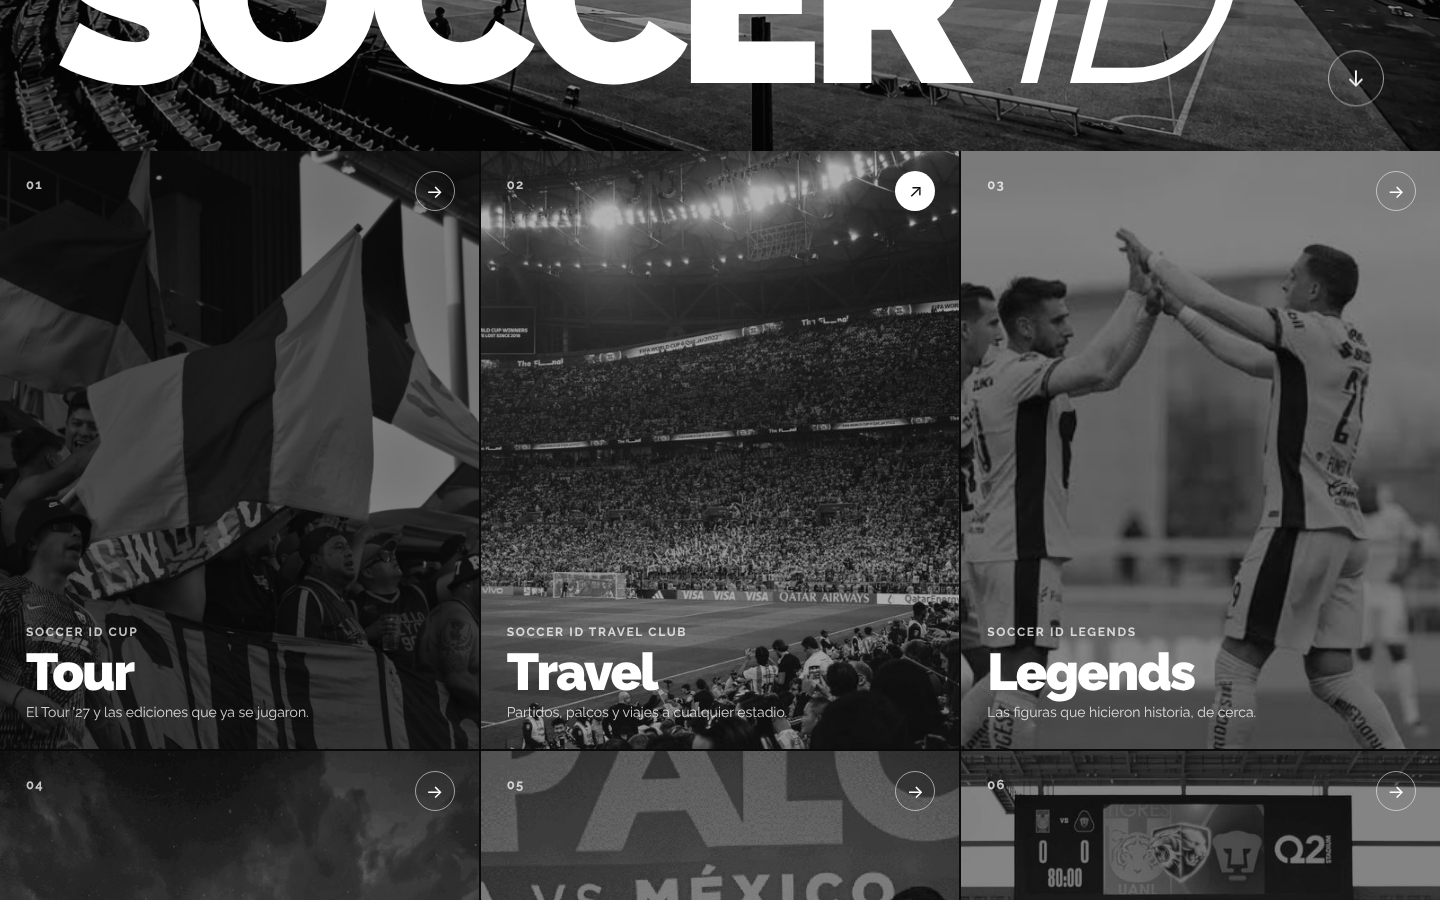
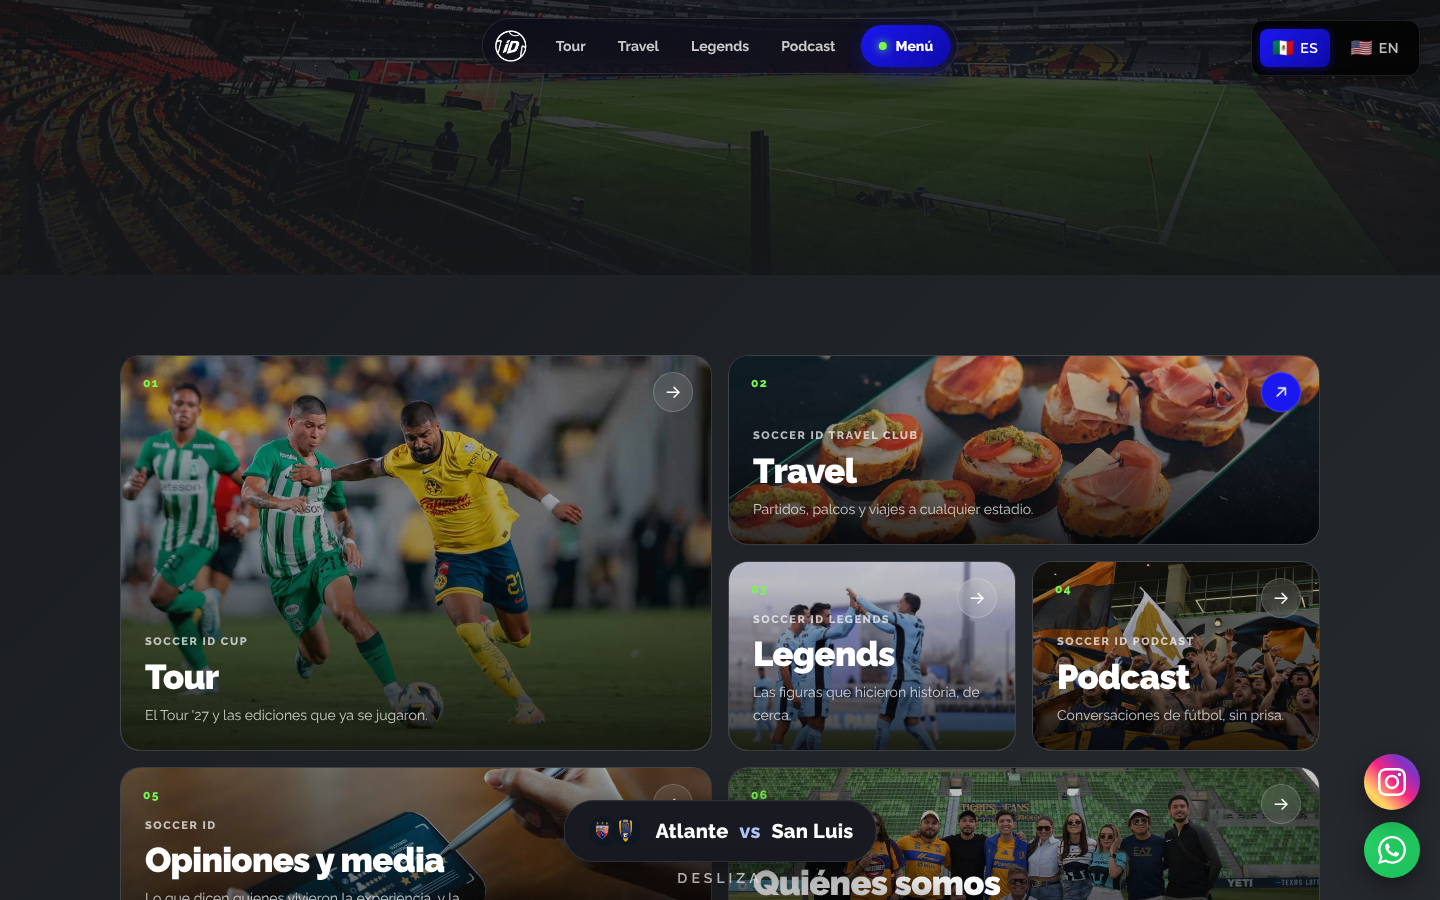
Inicio v2 sobre la landing original: vidrio, isotipo y bento con foto
El home de la nueva distribución vuelve a montarse sobre el layout y el
CSS originales (fondo oscuro, vidrio, hero con el isotipo sobre el estadio,
bento con fotografía, dock de redes y hoja del próximo partido), que es lo
que funcionaba. Encima sólo va lo nuevo: menú en píldora con las cuatro
marcas, menú completo con :target, bento de seis secciones y chips de redes.

Sólo se usa el isotipo (el círculo con el iD y la playera), nunca el
logotipo completo. Se retira el layout `inicio` de la ronda anterior.

Claude-Session: https://claude.ai/code/session_01TBS5J98YBvjYTTdc9XtUtE

diff --git a/assets/css/inicio.css b/assets/css/inicio.css
@@ -1,110 +1,135 @@
 /* ═══════════════════════════════════════════════════════════════════════
-   HOME · blanco y negro. Sin color, a pedido: ni el azul ni el verde de la
-   marca. Lo que da peso es la tipografía y la fotografía en escala de grises.
-   Hoja propia: el home no comparte estilos con las páginas interiores.
+   HOME · nueva distribución sobre la base de la landing original.
+   Esta hoja SOLO añade lo nuevo (píldora, menú, bento de seis, tarjeta
+   flotante, redes). Todo lo demás (fondo, hero, vidrio, bento base,
+   preloader, dock) viene de main.css, que es lo que daba el encanto.
+   Marca: solo el isotipo, el círculo con el iD y la playera.
+   Colores: el azul y el verde del logo, por variable, como manda main.css.
    ═══════════════════════════════════════════════════════════════════════ */
-@font-face { font-family: 'Raleway'; src: url('/assets/fonts/1Ptxg8zYS_SKggPN4iEgvnHyvveLxVvaooCP.ttf') format('truetype'); font-weight: 400; font-display: swap; }
-@font-face { font-family: 'Raleway'; src: url('/assets/fonts/1Ptxg8zYS_SKggPN4iEgvnHyvveLxVvoooCP.ttf') format('truetype'); font-weight: 500; font-display: swap; }
-@font-face { font-family: 'Raleway'; src: url('/assets/fonts/1Ptxg8zYS_SKggPN4iEgvnHyvveLxVs9pYCP.ttf') format('truetype'); font-weight: 700; font-display: swap; }
-@font-face { font-family: 'Raleway'; src: url('/assets/fonts/1Ptxg8zYS_SKggPN4iEgvnHyvveLxVtzpYCP.ttf') format('truetype'); font-weight: 900; font-display: swap; }
 
-:root {
-  --negro: #0A0A0A;
-  --blanco: #FFFFFF;
-  --gris: #8A8A8A;      /* 4.5 sobre blanco y 4.6 sobre negro: el mínimo */
-  --gris-claro: #E6E6E6;
-  --gutter: clamp(20px, 4vw, 56px);
+/* ─── Píldora de vidrio ───────────────────────────────────────────── */
+.pildora {
+  position: fixed; top: 18px; left: 50%; transform: translateX(-50%); z-index: 9995;
+  display: flex; align-items: center; gap: 6px;
+  padding: 6px 6px 6px 8px; border-radius: 999px;
+  background: rgba(10, 10, 26, 0.55);
+  backdrop-filter: blur(16px); -webkit-backdrop-filter: blur(16px);
+  border: 1px solid rgba(255,255,255,0.1);
+  box-shadow: 0 8px 32px rgba(0,0,0,0.35);
 }
-* { box-sizing: border-box; margin: 0; padding: 0; }
-html { scroll-behavior: smooth; }
-body { font-family: 'Raleway', -apple-system, 'Segoe UI', Roboto, sans-serif; background: var(--blanco); color: var(--negro); -webkit-font-smoothing: antialiased; line-height: 1.5; }
-a { color: inherit; text-decoration: none; }
-img { display: block; }
-
-/* ─── Cabecera ─────────────────────────────────────────────────────── */
-.cab {
-  position: absolute; top: 0; left: 0; right: 0; z-index: 10;
-  display: flex; align-items: center; justify-content: space-between; gap: 24px;
-  padding: 22px var(--gutter); color: var(--blanco);
-  mix-blend-mode: difference;   /* blanco sobre la foto oscura; negro si pasa sobre blanco */
+.pildora__iso { display: flex; width: 40px; height: 40px; align-items: center; justify-content: center; }
+.pildora__iso img { width: 34px; height: 34px; }
+.pildora__nav { display: flex; gap: 2px; padding: 0 4px; }
+.pildora__nav a {
+  font-size: 14px; font-weight: 700; color: rgba(255,255,255,0.78);
+  padding: 9px 15px; border-radius: 999px; text-decoration: none;
+  transition: background .2s, color .2s;
 }
-.cab__logo img { height: 24px; width: auto; }
-.cab__nav { display: flex; gap: 26px; font-size: 14px; font-weight: 700; letter-spacing: .02em; }
-.cab__nav a { position: relative; padding-bottom: 2px; }
-.cab__nav a::after { content: ''; position: absolute; left: 0; right: 0; bottom: 0; height: 1.5px; background: currentColor; transform: scaleX(0); transform-origin: left; transition: transform .25s; }
-.cab__nav a:hover::after { transform: scaleX(1); }
-.cab__menu { display: none; font-size: 14px; font-weight: 700; border: 1.5px solid currentColor; border-radius: 999px; padding: 8px 16px; }
+.pildora__nav a:hover { background: rgba(255,255,255,0.1); color: #fff; }
+.pildora__menu {
+  display: inline-flex; align-items: center; gap: 9px;
+  font-size: 14px; font-weight: 800; color: #fff; text-decoration: none;
+  padding: 10px 18px; border-radius: 999px;
+  background: linear-gradient(135deg, var(--brand-blue), var(--brand-blue-deep));
+  box-shadow: 0 6px 20px rgba(var(--brand-blue-rgb), 0.35);
+}
+.pildora__punto { width: 8px; height: 8px; border-radius: 50%; background: var(--brand-lime); box-shadow: 0 0 10px var(--brand-lime); }
 
-/* Menú completo, celular. */
-.menu { position: fixed; inset: 0; z-index: 30; background: var(--negro); color: var(--blanco); padding: 24px var(--gutter) 32px; display: flex; flex-direction: column; visibility: hidden; opacity: 0; transition: opacity .2s, visibility .2s; }
+/* ─── Menú completo (ancla, sin JavaScript) ───────────────────────── */
+.menu { position: fixed; inset: 0; z-index: 10050; visibility: hidden; opacity: 0; transition: opacity .25s, visibility .25s; }
 .menu:target { visibility: visible; opacity: 1; }
-.menu__x { align-self: flex-end; font-size: 14px; font-weight: 700; border: 1.5px solid rgba(255,255,255,.6); border-radius: 999px; padding: 8px 16px; }
-.menu__lista { list-style: none; margin-top: 40px; }
-.menu__lista a { display: flex; align-items: baseline; gap: 18px; padding: 16px 0; border-bottom: 1px solid rgba(255,255,255,.2); font-size: clamp(32px, 8vw, 56px); font-weight: 900; letter-spacing: -.03em; line-height: 1; }
-.menu__lista small { font-size: 13px; font-weight: 700; color: var(--gris); width: 26px; }
-.menu__redes { margin-top: auto; padding-top: 32px; display: flex; flex-wrap: wrap; gap: 8px 22px; font-size: 14px; font-weight: 700; }
-
-/* ─── Portada ──────────────────────────────────────────────────────── */
-.portada { position: relative; height: 100vh; min-height: 560px; background: var(--negro); color: var(--blanco); overflow: hidden; display: flex; align-items: flex-end; }
-.portada__foto, .portada__foto img { position: absolute; inset: 0; width: 100%; height: 100%; object-fit: cover; }
-.portada__foto img { filter: grayscale(1) contrast(1.05); opacity: .55; transform: scale(1.04); animation: respira 14s ease-in-out infinite alternate; }
-@keyframes respira { to { transform: scale(1); } }
-.portada__texto { position: relative; padding: 0 var(--gutter) 48px; width: 100%; }
-.portada__lema { font-size: clamp(15px, 1.6vw, 20px); font-weight: 500; max-width: 520px; margin-bottom: 18px; color: rgba(255,255,255,.85); }
-.portada__marca { font-size: clamp(76px, 17vw, 260px); font-weight: 900; letter-spacing: -.055em; line-height: .86; }
-.portada__marca span { font-weight: 400; font-style: italic; letter-spacing: -.03em; }
-.portada__baja { position: absolute; right: var(--gutter); bottom: 48px; width: 56px; height: 56px; border: 1.5px solid rgba(255,255,255,.6); border-radius: 50%; display: flex; align-items: center; justify-content: center; font-size: 22px; animation: baja 2.2s ease-in-out infinite; }
-@keyframes baja { 0%, 100% { transform: translateY(0); } 50% { transform: translateY(8px); } }
-
-/* ─── Seis fotos ───────────────────────────────────────────────────── */
-.secciones { display: grid; grid-template-columns: repeat(3, 1fr); gap: 2px; background: var(--negro); }
-.celda { position: relative; aspect-ratio: 4 / 5; overflow: hidden; color: var(--blanco); display: flex; flex-direction: column; justify-content: flex-end; padding: 26px; isolation: isolate; }
-.celda__foto { position: absolute; inset: 0; width: 100%; height: 100%; object-fit: cover; filter: grayscale(1); transform: scale(1.02); transition: transform .8s cubic-bezier(.2,.8,.2,1); z-index: -2; }
-.celda__velo { position: absolute; inset: 0; background: rgba(10,10,10,.5); transition: background .4s; z-index: -1; }
-.celda:hover .celda__foto { transform: scale(1.08); }
-.celda:hover .celda__velo { background: rgba(10,10,10,.3); }
-.celda__num { position: absolute; top: 24px; left: 26px; font-size: 13px; font-weight: 700; letter-spacing: .1em; color: rgba(255,255,255,.75); }
-.celda__ir { position: absolute; top: 20px; right: 24px; width: 40px; height: 40px; border: 1.5px solid rgba(255,255,255,.55); border-radius: 50%; display: flex; align-items: center; justify-content: center; font-size: 18px; transition: background .25s, color .25s, transform .4s cubic-bezier(.2,.8,.2,1); }
-.celda:hover .celda__ir { background: var(--blanco); color: var(--negro); transform: rotate(-45deg); }
-.celda__texto { display: flex; flex-direction: column; gap: 6px; }
-.celda__sub { font-size: 12px; font-weight: 700; letter-spacing: .14em; text-transform: uppercase; color: rgba(255,255,255,.75); }
-.celda__nombre { font-size: clamp(34px, 3.6vw, 56px); font-weight: 900; letter-spacing: -.035em; line-height: .95; }
-.celda__linea { font-size: 14px; color: rgba(255,255,255,.8); max-width: 300px; }
-
-/* ─── Ahora y redes: listas con filete ─────────────────────────────── */
-.ahora, .redes { padding: 64px var(--gutter); }
-.ahora { border-bottom: 1px solid var(--gris-claro); }
-.ahora__t, .redes__t { font-size: 13px; font-weight: 700; letter-spacing: .14em; text-transform: uppercase; color: var(--gris); margin-bottom: 18px; }
-.ahora__lista { list-style: none; border-top: 1px solid var(--negro); }
-.ahora__lista a { display: grid; grid-template-columns: 140px 1fr 40px; align-items: center; gap: 20px; padding: 22px 0; border-bottom: 1px solid var(--gris-claro); transition: padding-left .25s; }
-.ahora__lista a:hover { padding-left: 10px; }
-.ahora__k { font-size: 13px; font-weight: 700; letter-spacing: .1em; text-transform: uppercase; }
-.ahora__v { font-size: clamp(18px, 2vw, 26px); font-weight: 700; letter-spacing: -.02em; }
-.ahora__ir { text-align: right; font-size: 22px; }
-.redes__lista { list-style: none; display: grid; grid-template-columns: repeat(6, 1fr); gap: 2px; }
-.redes__lista a { display: flex; flex-direction: column; gap: 18px; padding: 20px; border: 1px solid var(--gris-claro); transition: background .2s, color .2s; }
-.redes__lista a:hover { background: var(--negro); color: var(--blanco); }
-.redes__lista span { font-weight: 700; font-size: 16px; }
-.redes__lista small { font-size: 13px; color: var(--gris); }
-
-.pie { padding: 26px var(--gutter) 36px; border-top: 1px solid var(--negro); }
-.pie__fila { display: flex; justify-content: space-between; align-items: center; gap: 16px; flex-wrap: wrap; font-size: 13px; }
-.pie__marca { font-weight: 900; letter-spacing: -.02em; }
-.pie__legal { color: var(--gris); }
-.pie__legal a:hover { color: var(--negro); }
-
-@media (max-width: 900px) {
-  .cab__nav { display: none; }
-  .cab__menu { display: inline-block; }
-  .secciones { grid-template-columns: 1fr 1fr; }
-  .redes__lista { grid-template-columns: 1fr 1fr; }
-  .ahora__lista a { grid-template-columns: 1fr 32px; }
-  .ahora__k { grid-column: 1 / -1; }
+.menu__scrim { position: absolute; inset: 0; background: rgba(5,4,21,0.72); backdrop-filter: blur(10px); -webkit-backdrop-filter: blur(10px); }
+.menu__panel {
+  position: relative; max-width: 760px; margin: 0 auto; height: 100%; padding: 24px 24px 32px;
+  display: flex; flex-direction: column; color: #fff; overflow-y: auto;
+  animation: menuEntra .3s cubic-bezier(.2,.8,.3,1);
 }
-@media (max-width: 600px) {
-  .secciones { grid-template-columns: 1fr; }
-  .celda { aspect-ratio: 4 / 3; }
-  .portada { height: 88vh; }
-  .portada__baja { display: none; }
+@keyframes menuEntra { from { opacity: 0; transform: translateY(18px); } to { opacity: 1; transform: none; } }
+.menu__cab { display: flex; align-items: center; justify-content: space-between; }
+.menu__x { width: 42px; height: 42px; border-radius: 50%; border: 1px solid rgba(255,255,255,0.2); background: rgba(255,255,255,0.06); color: #fff; font-size: 26px; line-height: 1; display: flex; align-items: center; justify-content: center; text-decoration: none; }
+.menu__lista { list-style: none; margin: 34px 0 0; padding: 0; }
+.menu__lista a {
+  display: grid; grid-template-columns: 34px 1fr; column-gap: 14px; align-items: baseline;
+  padding: 16px 14px; border-radius: 16px; color: #fff; text-decoration: none;
+  transition: background .2s;
 }
-@media (prefers-reduced-motion: reduce) { * { animation: none !important; transition: none !important; } }
+.menu__lista a:hover { background: rgba(255,255,255,0.07); }
+.menu__lista small { font-size: 12px; font-weight: 800; color: var(--brand-lime); }
+.menu__lista span { font-size: clamp(30px, 6vw, 48px); font-weight: 900; letter-spacing: -.02em; line-height: 1.05; }
+.menu__lista em { grid-column: 2; font-style: normal; font-size: 14px; color: rgba(255,255,255,0.65); margin-top: 4px; }
+.menu__redes { margin-top: auto; padding-top: 28px; display: flex; flex-wrap: wrap; gap: 8px; }
+.menu__redes a { font-size: 13px; font-weight: 700; color: #fff; text-decoration: none; padding: 9px 15px; border-radius: 999px; border: 1px solid rgba(255,255,255,0.2); background: rgba(255,255,255,0.06); }
+
+/* ─── Hero: solo retoques sobre el original ───────────────────────── */
+.hero-logo-text img { filter: drop-shadow(0 10px 30px rgba(0,0,0,0.5)); }
+.hero-marcas { display: flex; justify-content: center; flex-wrap: wrap; gap: 8px 18px; margin-top: 8px; }
+.hero-marcas span {
+  font-size: 12px; font-weight: 800; letter-spacing: .18em; text-transform: uppercase;
+  color: rgba(255,255,255,0.7); display: flex; align-items: center; gap: 18px;
+}
+.hero-marcas span + span::before { content: ''; width: 5px; height: 5px; border-radius: 50%; background: var(--brand-lime); }
+
+/* ─── Bento de seis secciones ─────────────────────────────────────── */
+.bento-v2 {
+  grid-template-columns: repeat(4, 1fr);
+  grid-template-rows: repeat(3, 190px);
+  grid-template-areas:
+    "tour tour travel travel"
+    "tour tour legends podcast"
+    "opiniones opiniones nosotros nosotros";
+}
+.item-tour { grid-area: tour; } .item-travel { grid-area: travel; } .item-legends { grid-area: legends; }
+.item-podcast { grid-area: podcast; } .item-opiniones { grid-area: opiniones; } .item-nosotros { grid-area: nosotros; }
+.bento-v2__item { display: block; text-decoration: none; color: inherit; opacity: 0; transform: translateY(30px); animation: bentoEntra .7s cubic-bezier(.34,1.56,.64,1) forwards; animation-delay: calc(var(--i) * 90ms + 150ms); }
+@keyframes bentoEntra { to { opacity: 1; transform: none; } }
+.bento-v2__item::before { background-image: var(--foto); }
+.item-tour::before { background-position: center 12%; }
+.bento-v2__num { position: absolute; top: 18px; left: 22px; font-size: 12px; font-weight: 800; letter-spacing: .12em; color: var(--brand-lime); }
+.bento-v2__sub { font-size: 11px; font-weight: 800; letter-spacing: .14em; text-transform: uppercase; color: rgba(255,255,255,0.7); margin-bottom: 4px; }
+.bento-v2 .bento-content h3 { font-size: clamp(1.4rem, 2.4vw, 2.2rem); font-weight: 900; letter-spacing: -.02em; margin-bottom: 4px; }
+.bento-v2 .bento-content p { font-size: 14px; color: rgba(255,255,255,0.75); margin: 0; max-width: 360px; }
+.bento-v2__ir {
+  position: absolute; top: 16px; right: 18px; z-index: 3;
+  width: 40px; height: 40px; border-radius: 50%;
+  display: flex; align-items: center; justify-content: center;
+  background: rgba(255,255,255,0.1); border: 1px solid rgba(255,255,255,0.18);
+  backdrop-filter: blur(8px); -webkit-backdrop-filter: blur(8px);
+  color: #fff; font-size: 18px; transition: background .25s, transform .35s cubic-bezier(.2,.8,.2,1);
+}
+.bento-v2__item:hover .bento-v2__ir { background: var(--brand-blue); transform: rotate(-45deg); }
+
+
+/* ─── Redes ───────────────────────────────────────────────────────── */
+.redes-v2 { padding: 40px 20px 110px; }
+.redes-v2 .section-header { margin-bottom: 26px; }
+.redes-v2__grid { display: grid; grid-template-columns: repeat(6, 1fr); gap: 12px; max-width: 1200px; margin: 0 auto; }
+.redes-v2__chip {
+  display: flex; flex-direction: column; gap: 14px; padding: 18px; border-radius: 18px; text-decoration: none; color: #fff;
+  background: rgba(255,255,255,0.05); border: 1px solid rgba(255,255,255,0.1);
+  backdrop-filter: blur(10px); -webkit-backdrop-filter: blur(10px);
+  transition: transform .2s, border-color .2s, background .2s;
+}
+.redes-v2__chip:hover { transform: translateY(-3px); border-color: rgba(var(--brand-blue-rgb), 0.7); background: rgba(var(--brand-blue-rgb), 0.18); }
+.redes-v2__chip span { font-weight: 800; font-size: 15px; }
+.redes-v2__chip small { font-size: 12px; color: rgba(255,255,255,0.6); }
+.footer-content { display: flex; align-items: center; justify-content: space-between; gap: 16px; flex-wrap: wrap; max-width: 1200px; margin: 0 auto; padding: 24px 20px; color: rgba(255,255,255,0.6); font-size: 13px; }
+.footer-content a { color: inherit; }
+
+/* ─── Celular ─────────────────────────────────────────────────────── */
+@media (max-width: 1024px) {
+  .bento-v2 { grid-template-rows: repeat(4, 180px); grid-template-areas: "tour tour travel travel" "tour tour legends podcast" "opiniones opiniones opiniones opiniones" "nosotros nosotros nosotros nosotros"; }
+  .redes-v2__grid { grid-template-columns: repeat(3, 1fr); }
+}
+@media (max-width: 768px) {
+  /* El selector de idioma del layout va fijo arriba a la derecha (≈90 px);
+     la píldora le deja ese hueco para no quedar debajo. */
+  .pildora { left: 12px; right: 104px; transform: none; justify-content: space-between; }
+  .pildora__nav { display: none; }
+  .bento-v2 { grid-template-columns: 1fr; grid-template-rows: none; grid-auto-rows: 200px; grid-template-areas: "tour" "travel" "legends" "podcast" "opiniones" "nosotros"; }
+  .item-tour { grid-row: span 1; }
+  .redes-v2__grid { grid-template-columns: repeat(2, 1fr); }
+  .hero-marcas { display: none; }
+}
+@media (prefers-reduced-motion: reduce) {
+  .bento-v2__item { animation: none; opacity: 1; transform: none; }
+}

diff --git a/index.js b/index.js
@@ -1631,12 +1631,12 @@ function seccionesV2(lang) {
 // Una foto de las que ya tiene el sitio por sección, para el home. Se ven en
 // escala de grises: el home no lleva color.
 const FOTOS_SECCION = {
-  tour: '/assets/images/gallery/cup2025/1.jpg',
-  travel: '/assets/images/gallery/vip/1.jpg',
+  tour: '/assets/images/idcup.jpg',               // la del panel SOCCER iD CUP original
+  travel: '/assets/images/vip2.jpg',              // la del panel Asientos VIP original
   legends: '/assets/images/gallery/cup2023/2.jpg',
-  podcast: '/assets/images/gallery/somos/2.png',
-  opiniones: '/assets/images/gallery/fan/1@2x.png',
-  nosotros: '/assets/images/gallery/somos/4.JPG'
+  podcast: '/assets/images/gallery/socceridcup/1.jpg',
+  opiniones: '/assets/images/opi2.jpg',           // la del panel Reviews original
+  nosotros: '/assets/images/somoss.jpg'           // la del panel Quiénes somos original
 };
 
 /** Lo común a todas las páginas de la nueva distribución. */
@@ -1645,9 +1645,10 @@ function datosV2(lang, slug) {
   const secciones = seccionesV2(lang);
   const actual = secciones.find(sx => sx.slug === slug) || null;
   return Object.assign(base, {
-    // El home tiene layout propio (blanco y negro, sin color); las secciones
-    // interiores siguen con el suyo mientras se decide la línea del sitio.
-    layout: slug ? 'v2' : 'inicio',
+    // El home usa el layout ORIGINAL (main): su hoja, su preloader, su dock
+    // flotante. La nueva distribución se construye encima de lo que ya
+    // funcionaba, no desde cero. Las secciones interiores siguen con el suyo.
+    layout: slug ? 'v2' : 'main',
     secciones,
     marcas: secciones.filter(sx => sx.marca),
     apoyo: secciones.filter(sx => !sx.marca),
